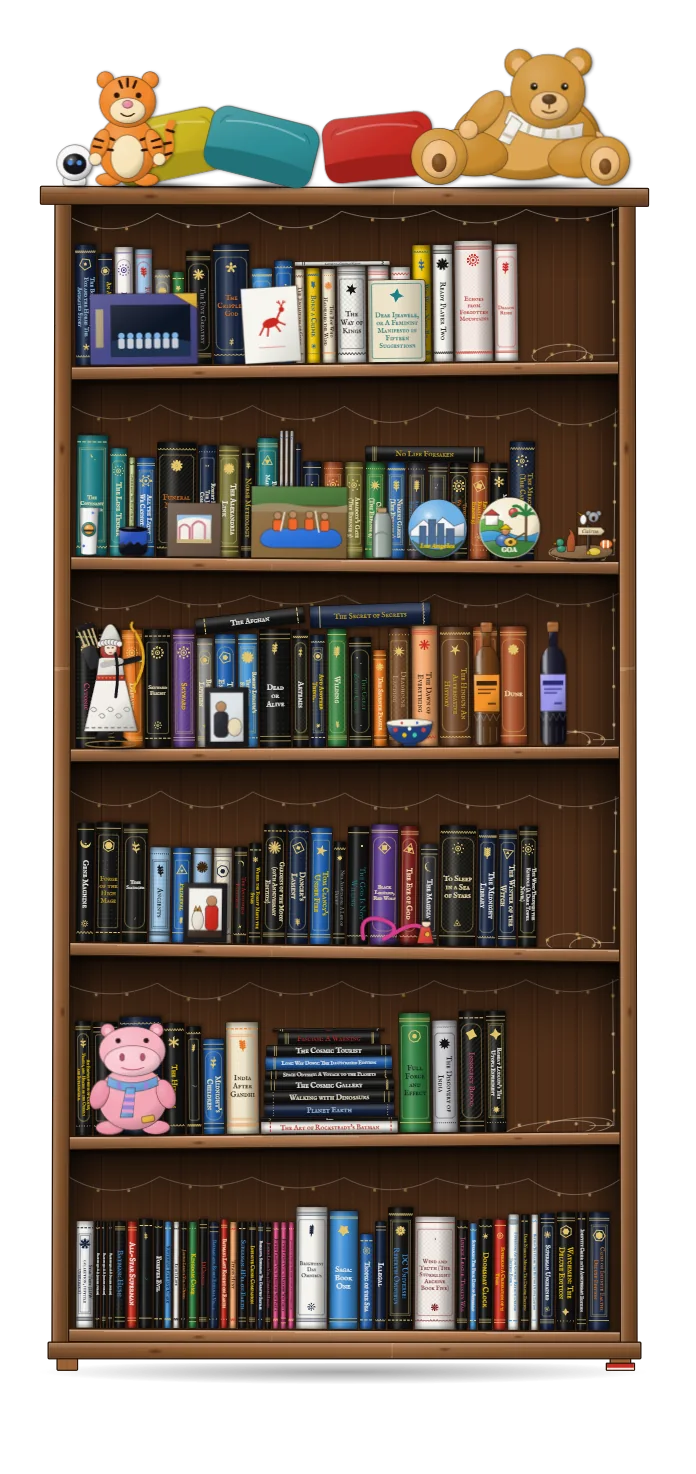
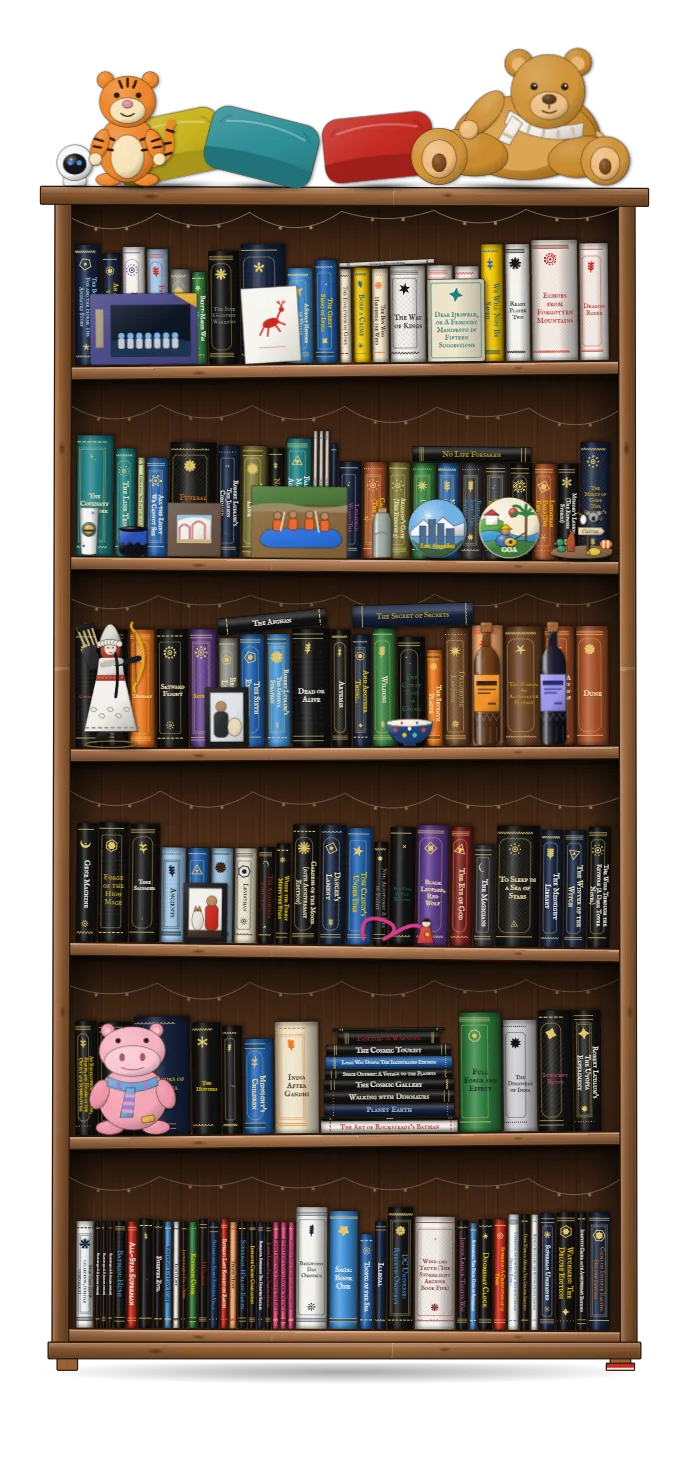
Dungeon v2.21.13
Library: every row full to both ends; comic piles with paper edges, leaning comics and a grid of covers (one per title) in the pile card.

diff --git a/assets/js/library.js b/assets/js/library.js
@@ -256,7 +256,8 @@
   }
   var hm = /^#CG(\d+)\./.exec(location.hash); if (hm) go(+hm[1] - 1, true); else route();
   /* Each pile is one thing on its shelf. The back piles come first, so the front piles stand in front of them. */
-  function pileCurios(piles){return piles.slice().sort((a,b)=>(b.back?1:0)-(a.back?1:0)).map(P=>({k:'pile:'+P.id,pile:P.id,name:P.name,s:P.s,x:+((P.ax+(P.w||170)/2)/420).toFixed(3),ax:P.ax,dy:P.dy||0,back:!!P.back,note:''}))}
+  function pileCurios(piles){const base=piles.slice().sort((a,b)=>(b.back?1:0)-(a.back?1:0)).map(P=>({k:'pile:'+P.id,pile:P.id,name:P.name,s:P.s,x:.5,dy:P.dy||0,note:''})),lean=[];
+    piles.forEach(P=>(P.lean||[]).forEach((L,j)=>lean.push({k:'lean:'+P.id+j,pile:P.id,lean:true,at:L.at==null?.5:L.at,ser:L.ser,name:L.ser.replace(/ \(.*\)$/,'')+', leaning on the pile',s:P.s,x:.5,dy:0,note:''})));return base.concat(lean)}
   function boot(d, render){
     const books=d.books||d,cases=d.cases&&d.cases.length?d.cases:[{name:'Shelf 1',n:6},{name:'Shelf 2',n:6}],piles=d.piles||[],curios=pileCurios(piles).concat(d.curios||[]),CS=[];
     {let a=0;cases.forEach(c=>{CS.push(a);a+=c.n})}
@@ -267,11 +268,11 @@
     function overview(){
       /* Back to the pictures: the live bookcase is thrown away, so this is instant */
       if(!render){clear();if(landing)landing.hidden=false;focusLanding();return}
-      fresh(true);start(books,d.covers,curios,cases,{piles,landing:true,signal:AC.signal,pick:()=>{},std:w=>{STD=w;window.__libStd=w},fixw:w=>{window.__libFixW=w},ready:()=>{window.__libReady=true}})}
+      fresh(true);start(books,d.covers,curios,cases,{piles,cc:d.cc,landing:true,signal:AC.signal,pick:()=>{},std:w=>{STD=w;window.__libStd=w},fixw:w=>{window.__libFixW=w},ready:()=>{window.__libReady=true}})}
     function draw(ci,sel,opt){const c=cases[ci];
       const bs=books.map((b,gi)=>Object.assign({},b,{_g:gi})).filter(b=>b.s>=CS[ci]&&b.s<CS[ci]+c.n).map(b=>Object.assign(b,{s:b.s-CS[ci]})),
         cu=curios.filter(q=>q.s===-1-ci||(q.s>=CS[ci]&&q.s<CS[ci]+c.n)).map(q=>Object.assign({},q,{s:q.s<0?-1:q.s-CS[ci]}));
-      start(bs,d.covers,cu,[c],{piles,ci,stdW:STD,fixW:FIXW0,signal:AC.signal,close:opt&&opt.back||overview,backLabel:opt&&opt.label,sel,list:()=>listFromShelf(ci)})}
+      start(bs,d.covers,cu,[c],{piles,cc:d.cc,ci,stdW:STD,fixW:FIXW0,signal:AC.signal,close:opt&&opt.back||overview,backLabel:opt&&opt.label,sel,list:()=>listFromShelf(ci)})}
     /* Draw a bookcase out of sight, at the size it will have when shown: the page's column, not in the page's flow */
     function prepare(ci,sel,opt){if(warmed===ci&&sel==null&&!opt)return;if(warmed>=0||AC)clear();
       const p=root.parentNode,cs=getComputedStyle(p),r=p.getBoundingClientRect();
@@ -313,7 +314,7 @@
     const ALL=DATA;ALL.forEach(b=>{b.a=b.a||'';b.p=b.p||'';b.n=b.n||'';b.an=b.an||'';b.pl=b.pl||'up';b.c2=b.c2||'#F4F2EC';b.cn=b.cn||'unsorted';b.g=b.g||'Unsorted'});
     const books=ALL.filter(b=>!b.pile),PILE={};
     const seenEmb=new Set();
-    books.forEach((e,i)=>{e.i=i;e.k=hsl(e.c);
+    books.forEach((e,i)=>{e.i=i;e.w0=e.w;e.k=hsl(e.c);
       const el=document.createElement('button');el.type='button';el.className='lb-book'+(e.w<10?' lb-thin':'');el.style.setProperty('--c',e.c);
       el.setAttribute('aria-label',e.t+(e.a?' by '+e.a:''));
       const s=document.createElement('span');s.textContent=e.t.startsWith('UNIDENTIFIED')?'?':e.t;
@@ -440,17 +441,22 @@
     try{manual=dec(localStorage.getItem('dungeon-library-manual'+KS)||'')}catch(err){manual=null}
 
     let scale=1,zoom=1,caseW=600,caseH=600,current='shelved';
-    function layoutShelf(list,real,tk){
-      if(real&&tk&&list.some(e=>e.ly)){const parts=[0,1,2].map(k=>list.filter(e=>(e.ly||0)===k)).filter(q=>q.length).map(q=>layoutShelf(q,true,false));
-        return{place:[].concat(...parts.map(q=>q.place)),width:Math.max(...parts.map(q=>q.width))}}
-      let x=PAD;const tops=[],place=[],later=[];
+    /* A book's thickness is an estimate, so on the real shelves every row is stretched a little (never more than a third) until it
+       reaches both ends: a shelf in a house has no free centimetre. setW changes a book that is already drawn. */
+    function setW(e,w){if(Math.abs(e.w-w)<.01)return;e.w=w;if(e.f==='up'){e.dw=w;e.el.style.width=w+'px';fitTitle(e)}}
+    function layoutShelf(list,real,tk,T){
+      if(real&&tk&&list.some(e=>e.ly)){const parts=[0,1,2].map(k=>list.filter(e=>(e.ly||0)===k)).filter(q=>q.length).map(q=>layoutShelf(q,true,false,T));
+        return{place:[].concat(...parts.map(q=>q.place)),width:Math.max(...parts.map(q=>q.width)),restX:parts.reduce((a,q)=>q.restX!=null?q.restX:a,null)}}
+      let kw=1;const rest=list.some(e=>e.lead==='rest');
+      if(real&&T&&!rest){const m0=layoutShelf(list,real,false);let su=0;list.forEach(e=>{if(e.pl==='up'||!e.pl)su+=e.w0});if(su>0)kw=Math.max(1,Math.min(1.34,(T-(m0.width-su))/su))}
+      let x=PAD,restX=null;const tops=[],place=[],later=[];
       for(let i=0;i<list.length;i++){const e=list[i],pl=real?e.pl:'up';
         if(pl==='stack'){const g=[];while(i<list.length&&list[i].pl==='stack'&&(list[i].pg||0)===(e.pg||0)){g.push(list[i]);i++}i--;
           g.forEach(b=>form(b,'flat'));const L=Math.max(...g.map(b=>b.dw));let acc=0;
           for(let j=g.length-1;j>=0;j--){const b=g[j];place.push([b,x+(L-b.dw)/2,-(acc+b.dh)]);acc+=b.dh}
           tops.push({x0:x,x1:x+L,top:-acc});x+=L+GAP}
         else if(pl==='top'||pl==='face')later.push(e);
-        else{if(real&&e.lead)x+=e.lead;form(e,'up');place.push([e,x,-e.h]);e._x=x;tops.push({x0:x,x1:x+e.w,top:-e.h});x+=e.w+GAP}}
+        else{if(real&&e.lead==='rest'){restX=T?Math.max(x,T-PAD-list.slice(i).filter(q=>q.pl==='up'||!q.pl).reduce((a,q)=>a+q.w0+GAP,0)):x;x=restX}else if(real&&e.lead)x+=e.lead;setW(e,real?e.w0*kw:e.w0);form(e,'up');place.push([e,x,-e.h]);e._x=x;tops.push({x0:x,x1:x+e.w,top:-e.h});x+=e.w+GAP}}
       const pts=[];tops.forEach(t=>pts.push([t.x0,t.top],[t.x1,t.top]));
       later.forEach(e=>{const a=list.find(b=>b!==e&&e.an&&b.t.startsWith(e.an)),ax=a&&a._x!=null?a._x:PAD;
         if(e.pl==='face'){form(e,'face');place.push([e,ax,-e.dh,0,true]);return}
@@ -464,7 +470,7 @@
           m=(sg[1][1]-sg[0][1])/(sg[1][0]-sg[0][0]);m=Math.max(-.5,Math.min(.5,m));y0=sg[0][1]+m*(ax-sg[0][0])}
         const ang=Math.atan(m),co=Math.cos(ang),si=Math.sin(ang),tl=[ax+si*e.dh,y0-co*e.dh],tr=[ax+co*len+si*e.dh,y0+si*len-co*e.dh];
         place.push([e,ax,y0-e.dh,ang]);pts.push(tl,tr);tops.push({x0:tl[0],x1:tr[0],top:tl[1],top2:tr[1]});x=Math.max(x,x1+GAP)});
-      return{place,width:x+PAD}}
+      return{place,width:rest&&T?T:x+PAD,restX}}
     let dxs={};try{dxs=JSON.parse(localStorage.getItem('dungeon-library-dx'+KS)||'{}')}catch(e){dxs={}}
     const FD=0,DEPTH=120,SIDE=24,TB=26,STUFF=236,FOOT=46,RAD=Math.PI/180,
       TILT=[-.6,.5,-.3,.7,-.5,.3,.5,-.7,.4,-.4,.6,-.3],JIT=[0,4,-3,5,-2,3,3,-2,5,0,-4,2],LEAN=[.2,-.25];
@@ -583,15 +589,37 @@
       TALL=['bottleAmber','bottleBlue','jar','shotGlass','basket','duck'];
     /* Drawings that arrive already lit and shaded by hand (library-art.js, Shelves 4 and 5) are left exactly as drawn */
     Object.assign(CURIO,window.__libArt||{});MAT.x=Object.keys(window.__libArt||{});
-    /* A pile of comics is drawn as a stack of thin spines and is one clickable thing; its comics are listed in its card, twenty at a time */
-    function pileArt(P,ms){const n=ms.length,W=P.w||170,th=Math.min(P.th||6,(P.cap||240)/n),H=Math.ceil(n*th)+3,id='pg'+P.id.replace(/\W/g,''),lab=th>=4.2,f=v=>v.toFixed(2),fs=th*.58;
+    /* A pile of comics is drawn as a stack of thin spines with their paper showing: a ragged cream edge, a slice of cover colour, uneven
+       stacking. It is one clickable thing; its card lists its comics by title with their covers. The covers are one picture, a sprite
+       of COLS x ROWS covers (SPR), taken from the photograph of the piles. */
+    const SPR=root.dataset.src.replace('data/library.json','images/comics/covers.webp'),COLS=12,ROWS=5,CWD=150,CHT=215,CC=CTX.cc||{};
+    const short=t=>t.toUpperCase().replace(/&/g,'AND').replace(/\s*\(?SUPER SPECIAL (\d+)\)?/,' SS $1').replace(/\(SPECIAL (\d+)\)/,'SP $1').replace(/\s+No\.\s*/,' ').replace(/'/g,'\u2019').replace(/[<>"]/g,'');
+    const cvAt=i=>[i%COLS,Math.floor(i/COLS)];
+    function pileArt(P,ms,Wo){const n=ms.length,W=Math.round(Wo||P.w||170),th=Math.min(P.th||6,(P.cap||240)/n),H=Math.ceil(n*th)+3,id='pg'+P.id.replace(/\W/g,''),lab=th>=4.2,f=v=>v.toFixed(2),fs=th*.66,GC=['#d8302a','#2f6fd0','#e7a62a','#3aa85a','#9a4ad0','#e8532a','#2ab0c8'];
+      const rn=i=>{const x=Math.sin(i*12.9898+W)*43758.5453;return x-Math.floor(x)};
       let g='<defs><linearGradient id="'+id+'" x1="0" y1="0" x2="1" y2="0"><stop offset="0" stop-color="#fff" stop-opacity=".16"/><stop offset=".45" stop-color="#fff" stop-opacity="0"/><stop offset="1" stop-color="#000" stop-opacity=".32"/></linearGradient></defs><g stroke="none">';
-      ms.forEach((b,i)=>{const y=1+i*th,dx=((i*37)%7-3)*(th>=4?.8:.5),h=th*(th>=4?.9:.84);
-        g+='<rect x="'+f(dx)+'" y="'+f(y)+'" width="'+W+'" height="'+f(h)+'" rx=".8" fill="'+b.c+'"/>';
-        if(lab){const t=b.t.toUpperCase().replace(/&/g,'&amp;');g+='<text x="'+f(W*.07+dx)+'" y="'+f(y+th*.7)+'" font-family="Arial,Helvetica,sans-serif" font-weight="700" font-size="'+f(fs)+'" fill="'+b.c2+'" textLength="'+f(Math.min(W*.58,t.length*fs*.6))+'" lengthAdjust="spacingAndGlyphs">'+t+'</text>';
-          if(P.imprint)g+='<text x="'+f(W*.7+dx)+'" y="'+f(y+th*.7)+'" font-family="Arial,Helvetica,sans-serif" font-weight="700" font-size="'+f(fs)+'" fill="'+b.c2+'" textLength="'+f(W*.26)+'" lengthAdjust="spacingAndGlyphs">'+P.imprint+'</text>'}});
+      ms.forEach((b,i)=>{const y=1+i*th,r=rn(i+3),dx=(r-.5)*(r>.86?W*.05:W*.02),h=th*(th>=4?.9:.84),pb=Math.min(W*.12,th>=4?W*.03+rn(i+9)*W*.05:W*.03),body=W-pb;
+        g+='<rect x="'+f(dx+body-1)+'" y="'+f(y)+'" width="'+f(pb+1.5)+'" height="'+f(h)+'" fill="'+(rn(i+1)>.5?'#e4d8b6':'#eee3c4')+'"/>';
+        g+='<rect x="'+f(dx)+'" y="'+f(y)+'" width="'+f(body)+'" height="'+f(h)+'" rx=".8" fill="'+b.c+'"/>';
+        if(th>=2.4)g+='<rect x="'+f(dx)+'" y="'+f(y)+'" width="'+f(Math.max(1.6,W*.016))+'" height="'+f(h)+'" fill="'+GC[(i*3+n)%GC.length]+'" opacity=".78"/>';
+        if(lab){const t=short(b.t);g+='<text x="'+f(W*.07+dx)+'" y="'+f(y+th*.72)+'" font-family="Arial,Helvetica,sans-serif" font-weight="800" font-size="'+f(fs)+'" fill="'+b.c2+'" textLength="'+f(Math.min(body*.62,t.length*fs*.62))+'" lengthAdjust="spacingAndGlyphs">'+t+'</text>';
+          if(P.imprint)g+='<text x="'+f(body*.74+dx)+'" y="'+f(y+th*.72)+'" font-family="Arial,Helvetica,sans-serif" font-weight="800" font-size="'+f(fs)+'" fill="'+b.c2+'" textLength="'+f(body*.22)+'" lengthAdjust="spacingAndGlyphs">'+P.imprint+'</text>'}
+        else if(th>=2.4&&i%3===0)g+='<rect x="'+f(W*.1+dx)+'" y="'+f(y+h*.38)+'" width="'+f(W*(.25+rn(i+5)*.3))+'" height="'+f(h*.26)+'" fill="'+b.c2+'" opacity=".6"/>';
+        if(rn(i+21)>.82)g+='<path d="M'+f(dx+body-4)+' '+f(y)+'L'+f(dx+body+4)+' '+f(y)+'L'+f(dx+body+4)+' '+f(y+Math.min(h,3))+'Z" fill="#f4ecd2" opacity=".95"/>'});
       g+='<rect x="0" y="0" width="'+W+'" height="'+H+'" fill="url(#'+id+')"/></g>';return[Math.ceil(W+8),H,g]}
-    (CTX.piles||[]).forEach(P=>{const ms=ALL.filter(b=>b.pile===P.id);if(!ms.length)return;ms.forEach(b=>{b.hay=(b.t+' '+(b.tags||[]).join(' ')).toLowerCase()});PILE[P.id]=Object.assign({},P,{members:ms});CURIO['pile:'+P.id]=pileArt(P,ms);MAT.x.push('pile:'+P.id)});
+    /* A comic leaning on a pile: a thin booklet whose cover is bent (the page sags), turned a little towards you, with a folded corner,
+       a dim page edge and a shadow. Its cover is a cell of the sprite. */
+    function leanArt(L,i){const w=L.w||108,h=L.h||160,yaw=L.yaw==null?.1:L.yaw,bow=L.bow==null?6:L.bow,ang=L.ang||0,sd=ang<0?-1:1,pad=24,Wc=Math.ceil(w+pad*2+h*Math.abs(Math.sin(ang*Math.PI/180))),Hc=Math.ceil(h+14),id='lc'+i,f=v=>v.toFixed(1);
+      const hl=sd>0?h:h*(1-yaw),hr=sd>0?h*(1-yaw):h,d=L.fold?Math.min(22,w*.2):0,cy=-(hl+hr)/2+2*bow,[cx0,cy0]=cvAt(L.cv);
+      let p;if(L.fold==='r')p='M0 0L'+w+' 0L'+w+' '+f(-hr+d)+'L'+f(w-d)+' '+f(-hr)+'Q'+f(w/2)+' '+f(cy)+' 0 '+f(-hl)+'Z';else if(L.fold==='l')p='M0 0L'+w+' 0L'+w+' '+f(-hr)+'Q'+f(w/2)+' '+f(cy)+' '+f(d)+' '+f(-hl)+'L0 '+f(-hl+d)+'Z';else p='M0 0L'+w+' 0L'+w+' '+f(-hr)+'Q'+f(w/2)+' '+f(cy)+' 0 '+f(-hl)+'Z';
+      let g='<defs><clipPath id="'+id+'c"><path d="'+p+'"/></clipPath><linearGradient id="'+id+'s" x1="0" y1="0" x2="1" y2="0"><stop offset="0" stop-color="#000" stop-opacity="'+(sd>0?.04:.2)+'"/><stop offset=".3" stop-color="#fff" stop-opacity=".14"/><stop offset=".6" stop-color="#000" stop-opacity=".02"/><stop offset="1" stop-color="#000" stop-opacity="'+(sd>0?.34:.12)+'"/></linearGradient></defs>';
+      g+='<g transform="translate('+pad+' '+(Hc-4)+') rotate('+ang+' '+(sd<0?0:w)+' 0)">';
+      g+='<path d="'+p+'" transform="translate('+(sd*7)+' 0)" fill="#000" opacity=".28"/>';
+      g+='<g clip-path="url(#'+id+'c)"><svg x="0" y="'+(-h)+'" width="'+w+'" height="'+h+'" viewBox="'+cx0*CWD+' '+cy0*CHT+' '+CWD+' '+CHT+'" preserveAspectRatio="xMidYMid slice"><image href="'+SPR+'" width="'+COLS*CWD+'" height="'+ROWS*CHT+'" preserveAspectRatio="none"/></svg><path d="'+p+'" fill="url(#'+id+'s)"/></g>';
+      g+='<path d="'+p+'" fill="none" stroke="#120d09" stroke-width="1.1" stroke-linejoin="round"/><path d="M0 -.5L'+w+' -.5" stroke="#7d725a" stroke-width="1.1" opacity=".7"/>';
+      if(L.fold)g+=(L.fold==='r'?'<path d="M'+f(w-d)+' '+f(-hr)+'L'+w+' '+f(-hr+d)+'L'+f(w-d)+' '+f(-hr+d)+'Z':'<path d="M'+f(d)+' '+f(-hl)+'L0 '+f(-hl+d)+'L'+f(d)+' '+f(-hl+d)+'Z')+'" fill="#e6dcc0" stroke="#7a6e52" stroke-width=".6"/>';
+      return[Wc,Hc,g+'</g>']}
+    (CTX.piles||[]).forEach(P=>{const ms=ALL.filter(b=>b.pile===P.id);if(!ms.length)return;ms.forEach(b=>{b.hay=(b.t+' '+(b.tags||[]).join(' ')).toLowerCase()});PILE[P.id]=Object.assign({},P,{members:ms});CURIO['pile:'+P.id]=pileArt(P,ms);MAT.x.push('pile:'+P.id);(P.lean||[]).forEach((L,j)=>{const k='lean:'+P.id+j;CURIO[k]=leanArt(L,P.id+j);MAT.x.push(k)})});
     const matOf=k=>MAT.x.indexOf(k)>=0?'x':MAT.s.indexOf(k)>=0?'s':MAT.g.indexOf(k)>=0?'g':MAT.f.indexOf(k)>=0?'f':'m';
     function shade(mk,k){const m=matOf(k);if(m==='x')return mk;const tall=TALL.indexOf(k)>=0,keep=[];
       mk=mk.replace(/<defs>[\s\S]*?<\/defs>|<clipPath[\s\S]*?<\/clipPath>/g,x=>{keep.push(x);return'\u0001'+(keep.length-1)+'\u0002'});
@@ -615,14 +643,25 @@
       return`<g transform="rotate(${f(rot)} ${f(c.w/2)} ${c.h})"><ellipse cx="${f(c.w/2+dx)}" cy="${f(c.h-2)}" rx="${f(rx+dx*.7)}" ry="${f(ry)}" fill="url(#lbSh)" opacity="${f(op*.8)}" stroke="none"/><ellipse cx="${f(c.w/2+dx*.25)}" cy="${f(c.h-1.5)}" rx="${f(rx*.72)}" ry="${f(ry*.55)}" fill="url(#lbSh)" opacity="${f(op)}" stroke="none"/></g>`}
     const curios=(CURIOS||[]).filter(c=>c&&CURIO[c.k]);let G={},cpos={};if(!CTX.landing)try{cpos=JSON.parse(localStorage.getItem('dungeon-library-curios'+KS)||'{}')}catch(err){cpos={}}
     const lift=el=>el.classList.contains('lb-lift')?(el.classList.contains('lb-curio')?' scale(1.12)':' scale(1.08)'):'',unlift=el=>{el.style.transform=el.style.transform.replace(/ scale\([^)]*\)$/,'')},pickT=el=>{if(el.style.transform&&!/ scale\(/.test(el.style.transform))el.style.transform+=lift(el)};
+    /* A pile is as wide as its share of the shelf; on a shelf with room the row is filled with the piles (Super Specials, then the back piles). */
+    function rePile(c,W){const P=c.po;if(!P||Math.abs((c._W||0)-W)<1)return;c._W=W;const a=pileArt(P,P.members,W);c.w=a[0];c.h=a[1];c.el.innerHTML='<svg width="'+c.w+'" height="'+c.h+'" viewBox="0 0 '+c.w+' '+c.h+'" aria-hidden="true">'+shadowOf(c,c.i0)+'<g '+SK+'>'+a[2]+'</g></svg>'}
+    function layPiles(L,tk){const by={};curios.forEach(c=>{if(c.pile&&c.po&&!cpos[c.id])(by[c.s]=by[c.s]||[]).push(c)});
+      Object.keys(by).forEach(k=>{const g=G[k];if(!g)return;const l=L[k]||{},list=by[k],right=l.restX!=null?l.restX-6:g.colW-PAD,left=PAD+3,R=right-left,spot={};
+        const fr=list.filter(c=>!c.lean&&!c.po.back&&!c.po.on),bk=list.filter(c=>!c.lean&&c.po.back),on=list.filter(c=>!c.lean&&c.po.on);
+        const fw=c=>c.po.fw||1,bw=c=>c.po.bw||.8,cap=c=>(c.po.w||170)*(tk?1.7:2.1);let x=left;
+        if(tk){const S=fr.reduce((a,c)=>a+fw(c),0)||1;fr.forEach(c=>{const W=Math.min(cap(c),R*fw(c)/S-4);rePile(c,W);c._ax=x;spot[c.pile]={x,w:c.w};x+=R*fw(c)/S});
+          bk.forEach((c,i)=>{const h=spot[fr[i%Math.max(1,fr.length)].pile]||{x:left,w:R/2};rePile(c,h.w-8);c._ax=h.x+4;spot[c.pile]={x:c._ax,w:c.w}})}
+        else{const all=fr.concat(bk),S=all.reduce((a,c)=>a+(c.po.back?bw(c):fw(c)),0)||1;all.forEach(c=>{const wt=c.po.back?bw(c):fw(c),W=Math.min(cap(c),R*wt/S-4);rePile(c,W);c._ax=x;spot[c.pile]={x,w:c.w};x+=R*wt/S})}
+        on.forEach(c=>{const h=spot[c.po.on];if(!h)return;rePile(c,h.w*(c.po.w||140)/(PILE[c.po.on].w||170));c._ax=h.x+(h.w-c.w+8)/2;spot[c.pile]={x:c._ax,w:c.w}});
+        list.filter(c=>c.lean).forEach(c=>{const h=spot[c.pile];if(!h)return;c._ax=Math.max(PAD,Math.min(g.colW-PAD-c.w,h.x+h.w*c.at-c.w/2))})})}
     function putCurio(c){const g=G[c.s]||G[0];if(!g)return;if(c.el.parentNode!==boxes[g.c]._cur)boxes[g.c]._cur.appendChild(c.el);const lx=c._ax!=null?c._ax:Math.max(0,Math.min(g.colW-c.w,c.x*g.colW-c.w/2)),co=Math.cos(g.th),si=Math.sin(g.th);
       c.wx=g.ox+lx*co-g.front*si;c.wy=g.by+lx*si+g.front*co-(c.dy||0);c.el.style.transform=`translate(${c.wx.toFixed(1)}px,${(c.wy-c.h).toFixed(1)}px) rotate(${g.th.toFixed(4)}rad)`}
     function dropCurio(c){const cx=c.wx+c.w/2,gc=(G[c.s]||G[0]).c;let best=null,bd=1e9;
       Object.keys(G).forEach(k=>{const g=G[k];if(g.c!==gc||cx<g.ox-40||cx>g.ox+g.colW+40)return;const d=Math.abs(c.wy-(g.by+(cx-g.ox)*Math.sin(g.th)));if(d<bd){bd=d;best=+k}});
       if(best!==null){const g=G[best];c.s=best;c.x=Math.max(0,Math.min(1,(cx-g.ox)/g.colW));cpos[c.id]={s:c.s,x:+c.x.toFixed(3)};try{localStorage.setItem('dungeon-library-curios'+KS,JSON.stringify(cpos))}catch(err){}}
       if(c.pile)c._ax=null;c.el.classList.add('lb-settle');putCurio(c);setTimeout(()=>c.el.classList.remove('lb-settle'),500)}
-    curios.forEach((c,i)=>{const sp=CURIO[c.k];c.id=c.id||c.k+'-'+i;c.curio=true;c.w=sp[0];c.h=sp[1];c.s0=c.s;c.x0=c.x;c.dy0=c.dy=+c.dy||0;if(cpos[c.id]){c.s=cpos[c.id].s;c.x=cpos[c.id].x}
-      const el=document.createElement('button');el.type='button';el.className='lb-curio'+(c.pile?' lb-pile':'');el.style.zIndex=500+i;el.setAttribute('aria-label',c.name||'Curio');
+    curios.forEach((c,i)=>{const sp=CURIO[c.k];c.i0=i;if(c.pile)c.po=PILE[c.pile];c.id=c.id||c.k+'-'+i;c.curio=true;c.w=sp[0];c.h=sp[1];c.s0=c.s;c.x0=c.x;c.dy0=c.dy=+c.dy||0;if(cpos[c.id]){c.s=cpos[c.id].s;c.x=cpos[c.id].x}
+      const el=document.createElement('button');el.type='button';el.className='lb-curio'+(c.pile?' lb-pile':'')+(c.lean?' lb-lean':'');el.style.zIndex=500+i;el.setAttribute('aria-label',c.name||'Curio');
       el.innerHTML=`<svg width="${c.w}" height="${c.h}" viewBox="0 0 ${c.w} ${c.h}" aria-hidden="true">${shadowOf(c,i)}<g ${SK}>${shade(sp[2],c.k)}</g></svg>`;c.el=el;caseEl.appendChild(el);
       let sx=0,sy=0,x0=0,y0=0,on=false,armed=true,timer=0;
       el.addEventListener('touchmove',ev=>{if(on&&armed)ev.preventDefault()},{passive:false});
@@ -681,12 +720,14 @@
     function mk(cls,x,y,w,h,rot,org){const d=document.createElement('div');d.className='lb-fr lb-'+cls;d.style.left=x+'px';d.style.top=y+'px';d.style.width=w+'px';d.style.height=h+'px';
       if(rot)d.style.transform='rotate('+rot+'deg)';if(org)d.style.transformOrigin=org;(BOX?(/^(back|tshade|fairy)/.test(cls)?BOX._deep:BOX):caseEl).appendChild(d);return d}
     function kid(parent,cls){const d=document.createElement('i');d.className='lb-'+cls;parent.appendChild(d);return d}
-    function render(mode){current=mode;const m=MODES[mode];cols=vp.clientWidth>=900?2:1;const r=m.run();msg.textContent=r.msg+(m.note||'')+(topic?' Only '+topic+' is lit; the rest are faded.':'');
+    function render(mode){current=mode;const m=MODES[mode];books.forEach(b=>setW(b,b.w0));cols=vp.clientWidth>=900?2:1;const r=m.run();msg.textContent=r.msg+(m.note||'')+(topic?' Only '+topic+' is lit; the rest are faded.':'');
       if(mode!=='manual')prevSh=r.sh;
       caseEl.classList.toggle('lb-manual',mode==='manual');document.getElementById('lib-tools').hidden=mode!=='manual';if(mode==='manual')shareLinks();
       caseEl.querySelectorAll('.lb-fr').forEach(p=>p.remove());
       const tk=!!m.real&&tucked,hasL=c=>!!CASES[c].layers,ownW=c=>!!CASES[c].own;
       const L=r.sh.map(s=>layoutShelf(s,!!m.real,tk));if(m.real){FIXW=Math.max(420,CTX.fixW||0,...L.filter((l,q)=>!hasL(caseOf(q))&&!ownW(caseOf(q))).map(l=>l.width));if(CTX.fixw)CTX.fixw(FIXW)}
+      if(m.real)CASES.forEach((cs,c)=>{const n=cs.n,tp=+cs.taper||0,colW=Math.max(ownW(c)?(cs.w||420):hasL(c)?420:FIXW,...L.slice(CS[c],CS[c]+n).map(l=>l.width));
+        for(let rw=0;rw<n;rw++){const q=CS[c]+rw;L[q]=layoutShelf(r.sh[q],true,tk,tp?colW*(1-tp*(n-1-rw)/Math.max(1,n-1)):colW)}});
       geos=[];G={};sortSel.value=m.pat||m.own?'':mode;patSel.value=m.pat?mode:'';menus.forEach(x=>x.update());
       for(let c=0;c<CASES.length;c++){const n=CASES[c].n,st=!!CASES[c].straight,bx=boxes[c],LM=24,cx=LM,ty=STUFF,bot=ty+TB+n*ROW-30,D=DEPTH,
           colW=Math.max(ownW(c)?(CASES[c].w||420):(m.real&&hasL(c))?420:FIXW,...L.slice(CS[c],CS[c]+n).map(l=>l.width)),CW=colW+2*SIDE,BW=LM+CW+40;
@@ -714,9 +755,9 @@
         const ln=lean*RAD,mx=cx+CW/2,my=ty+TB/2;
         G[-1-c]={ox:mx-(CW/2)*Math.cos(ln)+(TB/2)*Math.sin(ln),by:my-(CW/2)*Math.sin(ln)-(TB/2)*Math.cos(ln),th:ln,colW:CW,front:2,c}}
       BOX=null;
-      curios.forEach(c=>{c._ax=c.pile&&c.ax!=null&&!cpos[c.id]?c.ax:null});
+      curios.forEach(c=>{c._ax=null});layPiles(L,tk);
       if(m.real&&!tk)CASES.forEach((cs,c)=>{if(!cs.layers)return;for(let rw=0;rw<cs.n;rw++){const si=CS[c]+rw,g=G[si];let gx=L[si].width+6;
-        curios.filter(q=>q.s===si&&!cpos[q.id]&&(!q.pile||q.back)).sort((a,b)=>a.x-b.x).forEach(q=>{if(gx+q.w<=g.colW-PAD){q._ax=gx;gx+=q.w+12}})}});
+        curios.filter(q=>q.s===si&&!cpos[q.id]&&!q.pile).sort((a,b)=>a.x-b.x).forEach(q=>{if(gx+q.w<=g.colW-PAD){q._ax=gx;gx+=q.w+12}})}});
       curios.forEach(putCurio);
       root.querySelectorAll('[data-mode]').forEach(b=>b.setAttribute('aria-pressed',b.dataset.mode===mode));
       arrange()}
@@ -791,22 +832,33 @@
       fetch('https://openlibrary.org/search.json?limit=1&fields=cover_i&title='+encodeURIComponent(t)+(a?'&author='+encodeURIComponent(a):''))
         .then(r=>r.json()).then(d=>{const id=d.docs&&d.docs[0]&&d.docs[0].cover_i,u=id?'https://covers.openlibrary.org/b/id/'+id+'-M.jpg':'';
           cache[e.t]=u;try{localStorage.setItem('dungeon-library-covers',JSON.stringify(cache))}catch(err){}show(u)}).catch(()=>{})}
-    /* The card of a pile: its comics, twenty to a page, with a search box */
+    /* The card of a pile: one cover for each title, as in the photograph; a title opens to show every issue there is of it */
+    function cover(el,name,idx,b){el.className='lb-cv';if(idx!=null){const[cx,cy]=cvAt(idx);el.style.backgroundImage='url('+SPR+')';el.style.backgroundSize=COLS*100+'% '+ROWS*100+'%';el.style.backgroundPosition=(cx/(COLS-1)*100)+'% '+(cy/(ROWS-1)*100)+'%'}
+      else{el.classList.add('plate');el.style.background=b.c;el.style.color=b.c2;el.textContent=name.replace(/ No\. \d+$/,'')}return el}
     function pileCard(c,m){const P=PILE[c.pile],ms=P.members,f=add(info,'div',null,'f');f.classList.add('lb-f-pile');
-      add(f,'h2',P.name);add(f,'p',ms.length+' comics. '+where(c.s)+(P.back?', behind the front piles':'')+'.');
+      const S=[],ix={};ms.forEach(b=>{const n=b.t.replace(/\s+No\.\s*\d+$/,'');if(!(n in ix)){ix[n]=S.length;S.push({n,items:[],cv:CC[n],hay:''})}const s=S[ix[n]];s.items.push(b);s.hay+=' '+b.t.toLowerCase()});
+      S.forEach(s=>{s.hay=(s.n+s.hay).toLowerCase()});
+      add(f,'h2',P.name);add(f,'p',ms.length+' comics in '+S.length+' titles. '+where(c.s)+(P.back?', behind the front piles':'')+'.');
       const q=add(f,'input',null,'pq');q.type='search';q.placeholder='Search this pile';q.setAttribute('aria-label','Search this pile');
-      const nav=add(f,'div',null,'pn'),ul=add(f,'ul',null,'pl');let page=0;
-      function draw(){const key=q.value.trim().toLowerCase().split(/\s+/).filter(Boolean),rows=ms.filter(b=>key.every(k=>b.hay.indexOf(k)>=0)),pages=Math.max(1,Math.ceil(rows.length/20));
-        if(page>=pages)page=pages-1;nav.textContent='';ul.textContent='';
-        if(pages>1)for(let i=0;i<pages;i++){const bt=add(nav,'button',(i*20+1)+'\u2013'+Math.min(rows.length,(i+1)*20),'pg');bt.type='button';bt.setAttribute('aria-pressed',i===page?'true':'false');bt.onclick=()=>{page=i;draw()}}
-        rows.slice(page*20,page*20+20).forEach(b=>{const li=add(ul,'li');const sw=document.createElement('i');sw.style.background=b.c;li.appendChild(sw);add(li,'span',b.t);add(li,'small',(b.tags||[]).filter(t=>t!=='Comics').join(', '))});
-        if(!rows.length)add(ul,'li','No comics match.')}
-      q.oninput=()=>{page=0;draw()};if(m)q.value=m.t;draw();
+      const grid=add(f,'div',null,'cg'),det=add(f,'div',null,'cd'),nav=add(f,'div',null,'pn');let page=0,pick=null;
+      const serOf=m&&(m.ser||(m.t&&m.t.replace(/\s+No\.\s*\d+$/,'')));if(serOf&&ix[serOf]!=null){pick=serOf;page=Math.floor(ix[serOf]/12)}
+      function draw(){const key=q.value.trim().toLowerCase().split(/\s+/).filter(Boolean),rows=S.filter(s=>key.every(k=>s.hay.indexOf(k)>=0)),pages=Math.max(1,Math.ceil(rows.length/12));
+        if(page>=pages)page=pages-1;grid.textContent='';nav.textContent='';det.textContent='';
+        rows.slice(page*12,page*12+12).forEach(s=>{const bt=add(grid,'button',null,'ct');bt.type='button';bt.setAttribute('aria-pressed',s.n===pick?'true':'false');bt.setAttribute('aria-label',s.n+', '+s.items.length+(s.items.length>1?' issues':' issue'));
+          bt.appendChild(cover(document.createElement('div'),s.n,s.cv,s.items[0]));add(bt,'b',s.n.replace(/ \(.*\)$/,''));add(bt,'small',s.items.length>1?s.items.length+' issues':'1 comic');
+          bt.onclick=()=>{pick=pick===s.n?null:s.n;draw()}});
+        if(pages>1)for(let i=0;i<pages;i++){const bt=add(nav,'button',(i*12+1)+'\u2013'+Math.min(rows.length,(i+1)*12),'pg');bt.type='button';bt.setAttribute('aria-pressed',i===page?'true':'false');bt.onclick=()=>{page=i;draw()}}
+        const s=pick&&S[ix[pick]];if(s){const row=add(det,'div',null,'cdr');row.appendChild(cover(document.createElement('div'),s.n,s.cv,s.items[0]));const tx=add(row,'div');add(tx,'h3',s.n);
+          add(tx,'p',s.items.length>1?s.items.length+' issues, from the top of the stack down.':'One comic.');const ch=add(tx,'div',null,'chips');
+          s.items.forEach((b,k)=>{const nn=/No\.\s*(\d+)$/.exec(b.t);if(nn||s.items.length>1)add(ch,'span',nn?'No. '+nn[1]:b.t,k===0?'top':null)});
+          const tg=(s.items[0].tags||[]).filter(t=>t!=='Comics');if(tg.length)add(tx,'p',tg.join(', '))}
+        if(!rows.length)add(grid,'p','No comics match.')}
+      q.oninput=()=>{page=0;draw()};draw();
       add(f,'button','Close','ctl').onclick=()=>select(sel)}
     function select(e,m){if(sel)sel.el.classList.remove('lb-sel');info.textContent='';info.classList.remove('lb-on');
       if(sel===e||!e||e.item){sel=null;return}
       sel=e;e.el.classList.add('lb-sel');info.classList.add('lb-on');
-      if(e.curio&&e.pile&&PILE[e.pile])return pileCard(e,m);
+      if(e.curio&&e.pile&&PILE[e.pile])return pileCard(e,m||(e.ser?{ser:e.ser}:null));
       if(e.curio){const f=add(info,'div',null,'f');add(f,'h2',e.name||'Curio');add(f,'p',e.note||'No details yet.');
         add(f,'p',(e.s<0?'On top of the '+CASES[-1-e.s].name.toLowerCase():where(e.s))+', position '+(+e.x).toFixed(2));add(f,'button','Close','ctl').onclick=()=>select(sel);return}
       const cv=add(info,'div',null,'cover');cv.style.setProperty('--c',e.c);cv.style.color=e.oc;

diff --git a/assets/css/library.css b/assets/css/library.css
@@ -262,6 +262,9 @@ html.lib-zoomed .lb-glow0, html.lib-zoomed .lb-glow1, html.lib-zoomed .lb-glow2 
 .lb-curio.lb-settle { transition: transform 0.45s cubic-bezier(0.2, 0.8, 0.2, 1), scale 0.15s; }
 .lb-curio svg { display: block; overflow: visible; filter: drop-shadow(2px 1px 2px rgba(0, 0, 0, 0.4)); }
 .lb-curio:focus-visible { outline: 2px solid #E3B23C; outline-offset: 3px; }
+/* a leaning comic is only its painted cover: the clear corners of its box let a click through to the pile behind */
+.lb-curio.lb-lean { pointer-events: none; }
+.lb-curio.lb-lean svg g[clip-path] { pointer-events: auto; cursor: pointer; }
 .lb-nocurios .lb-curio:not(.lb-pile) { display: none; }
 .lb-orn { position: absolute; left: 0; top: 0; pointer-events: none; }
 .lb-orn svg { display: block; }
@@ -334,13 +337,24 @@ html.lib-zoomed .lb-glow0, html.lib-zoomed .lb-glow1, html.lib-zoomed .lb-glow2 
     .lib-r-a, .lib-r-m { grid-column: 2 / 4; }
 }
 
-/* The card of a pile of comics: a search box, pages of twenty, and the list */
+/* The card of a pile of comics: a search box, a grid of covers (one per title), the chosen title's issues */
 #lib-info .lb-f-pile { display: flex; flex-direction: column; }
 .lb-pq { width: 100%; box-sizing: border-box; margin: 0.45rem 0; padding: 0.45rem 0.8rem; border: 1px solid var(--rule); border-radius: 999px; background: transparent; color: inherit; font: inherit; font-size: 0.875rem; }
-.lb-pn { display: flex; flex-wrap: wrap; gap: 0.3rem; margin: 0 0 0.4rem; }
+.lb-cg { display: grid; grid-template-columns: repeat(4, 1fr); gap: 0.55rem; }
+.lb-ct { padding: 0; border: 0; background: none; color: inherit; font: inherit; text-align: left; cursor: pointer; }
+.lb-ct b { display: block; margin-top: 0.3rem; font-size: 0.72rem; line-height: 1.2; }
+.lb-ct small { color: var(--graphite); font-size: 0.68rem; }
+.lb-cv { aspect-ratio: 150 / 215; border-radius: 3px; background-repeat: no-repeat; background-color: #222; box-shadow: 0 2px 6px rgba(0, 0, 0, 0.4); }
+.lb-cv.plate { display: flex; align-items: center; justify-content: center; padding: 0.25rem; text-align: center; font-size: 0.58rem; font-weight: 800; line-height: 1.15; overflow: hidden; }
+.lb-ct[aria-pressed="true"] .lb-cv { outline: 3px solid var(--ink); outline-offset: 1px; }
+.lb-cd { margin: 0.6rem 0 0; }
+.lb-cdr { display: flex; gap: 0.7rem; padding: 0.7rem; border: 1px solid var(--rule); border-radius: 10px; }
+.lb-cdr .lb-cv { flex: none; width: 88px; }
+.lb-cdr h3 { margin: 0 0 0.15rem; font-size: 0.95rem; }
+.lb-cdr p { margin: 0 0 0.4rem; font-size: 0.8rem; }
+.lb-chips { display: flex; flex-wrap: wrap; gap: 0.25rem; margin-bottom: 0.4rem; }
+.lb-chips span { padding: 0.1rem 0.5rem; border: 1px solid var(--rule); border-radius: 999px; font-size: 0.74rem; }
+.lb-chips span.lb-top { background: var(--ink); color: var(--paper); border-color: var(--ink); }
+.lb-pn { display: flex; flex-wrap: wrap; gap: 0.3rem; margin: 0.6rem 0 0; }
 .lb-pg { padding: 0.2rem 0.6rem; border: 1px solid var(--rule); border-radius: 999px; background: transparent; color: inherit; font: inherit; font-size: 0.78rem; cursor: pointer; }
 .lb-pg[aria-pressed="true"] { background: var(--ink); color: var(--paper); border-color: var(--ink); }
-.lb-pl { list-style: none; margin: 0; padding: 0; }
-.lb-pl li { display: flex; align-items: center; gap: 0.5rem; padding: 0.3rem 0; border-top: 1px solid var(--rule); font-size: 0.85rem; }
-.lb-pl i { flex: none; width: 8px; height: 18px; border-radius: 2px; }
-.lb-pl small { margin-left: auto; padding-left: 0.5rem; text-align: right; color: var(--graphite); }

diff --git a/docs/library.md b/docs/library.md
@@ -45,7 +45,7 @@ The order of the lines is the order on the shelves: within one shelf, books stan
 
 ## Piles of comics
 
-A pile of thin comics is one thing on its shelf, not hundreds. Click it and its card lists the comics, twenty to a page, with a search box. The comics are still in the book list at `#books`, with the pile named in their place ("Shelf 3, row 5, gotham super specials, left pile").
+A pile of thin comics is one thing on its shelf, not hundreds. Click it and its card shows one cover for each title, with a search box, twelve titles to a page. Choosing a title shows every issue of it. The comics are still in the book list at `#books`, with the pile named in their place ("Shelf 3, row 5, gotham super specials, left pile").
 
 The `piles` list near the top of the data file sets the piles:
 
@@ -54,17 +54,22 @@ The `piles` list near the top of the data file sets the piles:
 | `id` | A short name the comics refer to. |
 | `name` | Shown on the pile's card and in the list. |
 | `s` | The shelf it stands on (for Shelf 3's bottom row, 16). |
-| `ax` | Where its left edge stands on the shelf, in drawing units from the shelf's left end. The shelf is 420 wide when its layers are tucked together. |
-| `w` | How wide it is drawn (the length of a comic). |
+| `w` | How long a comic in it is drawn, in drawing units. Piles are drawn wider than this only to fill their shelf. |
+| `fw`, `bw` | How much of the shelf a front pile (`fw`, default 1) or a back pile (`bw`, default .8) takes, compared with the others. |
 | `th` | How thick each comic is drawn. A pile is drawn no taller than `cap` (default 240), so a big pile has thinner slabs. |
-| `dy` | Optional. How far above the shelf it rests: the Archie digests stand on top of the Super Specials. |
-| `back` | `true` for a pile that stands behind the front piles. Where the layers lie side by side, a back pile stands beside the books instead. |
+| `on` | The `id` of a pile this one stands on, as the Archie digests stand on the middle Super Specials. `dy` is how far above the shelf it rests. |
+| `back` | `true` for a pile that stands behind the front piles. Where the layers lie side by side, the back piles stand beside the front ones. |
 | `a`, `p`, `h`, `c`, `c2`, `cn` | What each comic takes unless it says otherwise: author or publisher, height, spine colour, title colour and colour name. |
 | `imprint` | Optional. A second line of lettering on each spine ("GOTHAM COMICS"). |
+| `lean` | Optional. Comics leaning on the pile, as a list of `{cv, ser, at, ang, w, h, fold, yaw, bow}`: `cv` is the cover (see below), `ser` the title in the pile it opens, `at` where along the pile (0 to 1), `ang` the lean in degrees (negative leans left), `fold` `"l"` or `"r"` for a folded top corner, `yaw` how far it is turned towards you and `bow` how much the page sags. |
 
-A comic in a pile is a line in `books` with only `t` (title), `pile` (the pile's `id`) and `tags`. It may add `c`, `w` or `n` of its own. The order of the lines is the order in the pile, top to bottom. A pile is not drawn comic by comic, so there is no cover lookup for its comics.
+A comic in a pile is a line in `books` with only `t` (title), `pile` (the pile's `id`) and `tags`. It may add `c`, `w` or `n` of its own. The order of the lines is the order in the pile, top to bottom. A title with several issues is "Title No. 14", "Title No. 15" and so on: the card groups them by the words before "No.".
 
-A book can also have `lead`: empty room, in drawing units, before it, so the front piles have somewhere to stand. It is used only where the shelf is drawn as it really is.
+**Covers.** `cc` near the top of the data file maps a title to its cover: a number, counted left to right then down, in `assets/images/comics/covers.webp` (12 covers across, 5 down, each 150 by 215). A title with no cover shows a plain plate in its pile's colours. To add or change a cover, edit that picture and the number; then run `npm run shelves`.
+
+A book can also have `lead`: `"rest"` puts it and every book after it against the right end of the shelf, which is how the standing albums sit beside the piles.
+
+**Every row is full.** On the real shelves each row's standing books are stretched a little (never by more than a third) until the row reaches both ends, because a shelf in a house has no free centimetre. Thicknesses in the data are estimates, so this is a rounding of them.
 
 ## Curios
 

diff --git a/CHANGELOG.md b/CHANGELOG.md
@@ -1,5 +1,12 @@
 # Changelog
 
+## 2.21.13
+
+- **Every shelf is full, end to end.** On the shelves as they really are, each row's standing books are widened a little (by a third at the most) until the row reaches both ends: Shelves 1 to 5 no longer have strips of empty board. The thicknesses in the data are estimates, so this evens them out.
+- **The comics look like comics.** The piles on Shelf 3 show their paper (a ragged cream edge, a slice of cover colour at each spine, uneven stacking), and each fills its share of the shelf. Four comics lean on the front piles: thin bent booklets, turned a little towards you, with a folded corner, a dim page edge and a shadow. Clicking one opens its pile on that title.
+- **A pile opens to a grid of covers**, one for each title, as in the photograph of the piles: the title's name and how many issues there are. Choosing a title shows every issue of it. The covers are one 290 KB picture of 60 covers, loaded when Shelf 3 opens. Titles with no photographed cover show a plain plate. The search box finds a title or an issue number.
+- **For editing:** `cc` (title to cover), `lean`, `fw`, `bw`, `on` and `lead: "rest"` in the data file (docs/library.md, "Piles of comics").
+
 ## 2.21.12
 
 - **The comics on Shelf 3's bottom row.** 386 comics, now in five piles that stand as in the photograph: the Gotham Super Specials in two piles (33 and 8), the Archie digests (29) standing on top of the second, and, behind them, two piles of Gotham single issues (121 DC and others, 195 Marvel). Click a pile and its card lists the comics, twenty to a page, with a search box. The 13 books that stand upright on the right (the Tintin and Jo, Zette and Jocko albums, Asterix the Bold, Fighting the Fakers, X-Force, Superman 8 and three Marvel Adventures) are ordinary books again.
